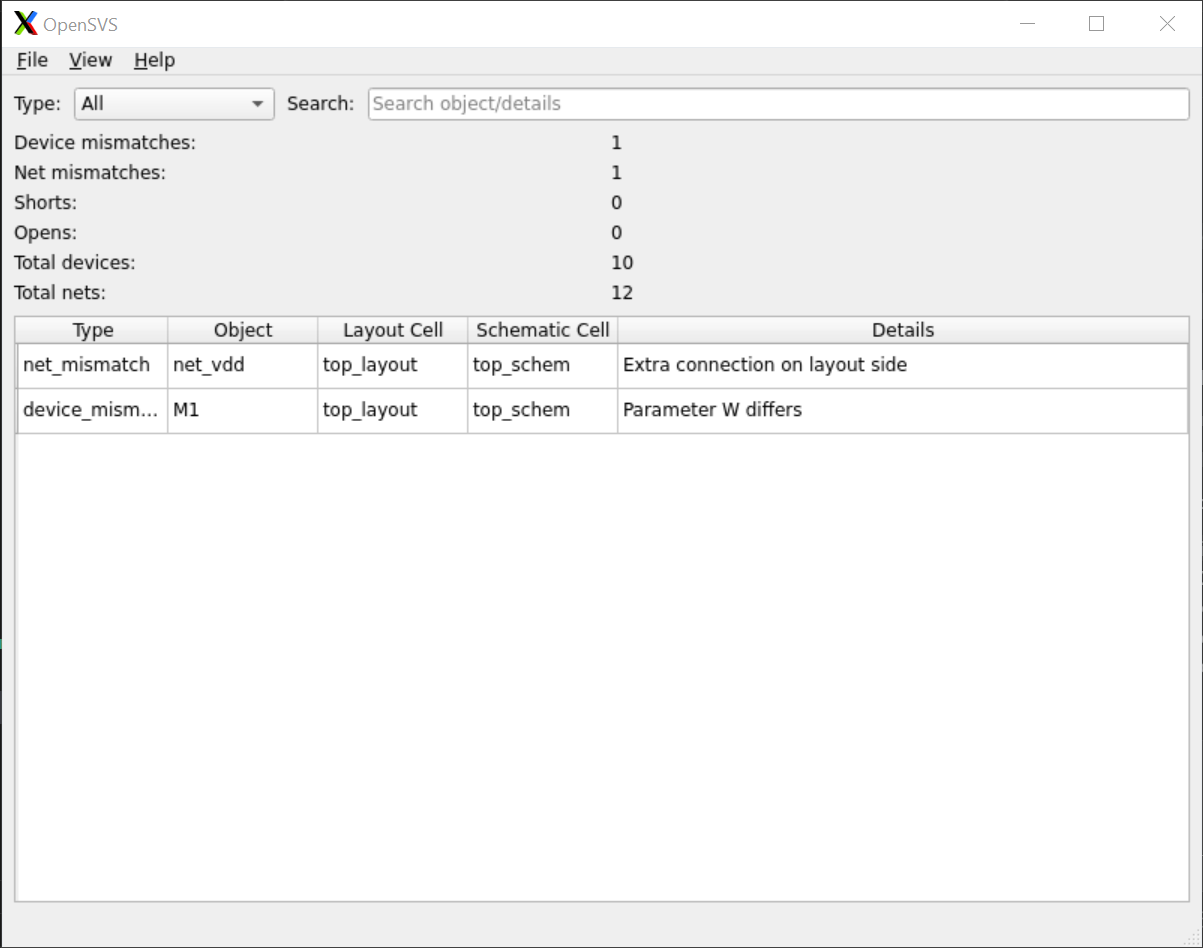
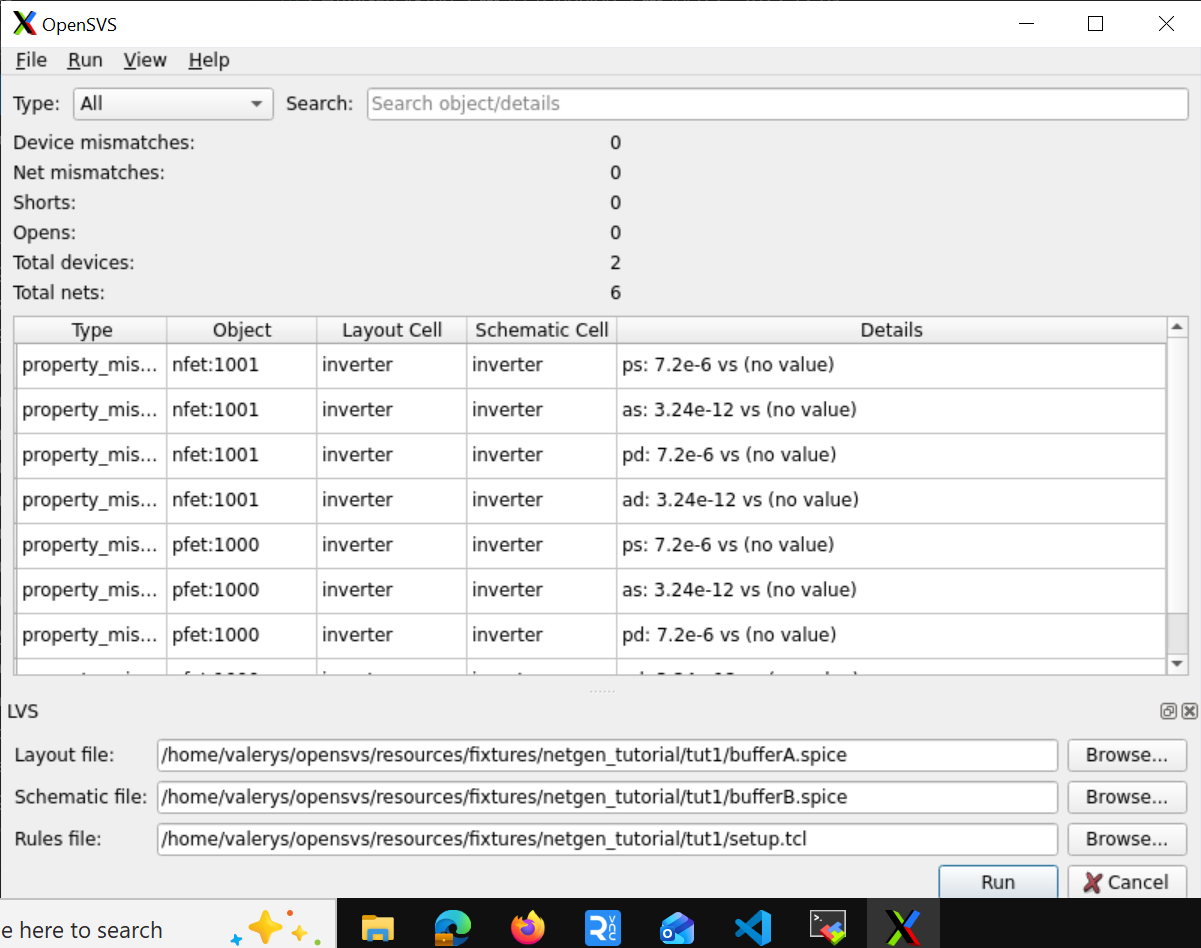
OpenSVS 0.2

diff --git a/src/main.cpp b/src/main.cpp
@@ -9,7 +9,7 @@ int main(int argc, char *argv[])
 {
     QApplication app(argc, argv);
     QCoreApplication::setApplicationName(QStringLiteral("opensvs"));
-    QCoreApplication::setApplicationVersion(QStringLiteral("0.1"));
+    QCoreApplication::setApplicationVersion(QStringLiteral("0.2"));
 
     QCommandLineParser parser;
     parser.setApplicationDescription(QStringLiteral("OpenSVS netgen JSON viewer"));

diff --git a/CHANGELOG.md b/CHANGELOG.md
@@ -1,8 +1,13 @@
 # Changelog
 
+## 0.2 - 2025-12-03
+- Reimplemented JSON parser to support netgen JSON output (netgen 1.15.311 tested). WARNING: netgen output support can be still limited
+- Added Run -> LVS dock, it configures and shells out to `netgen -batch lvs ... -json`, writes `.out/.json` into the current directory, and loads the resulting JSON into the viewer
+- UI tweaks: added borders to widget
+
 ## 0.1 - 2025-12-01
 - Initial Qt6 GUI scaffold with summary + table view for netgen JSON reports
-- JSON parser with fixture and QtTest coverage
+- JSON parser (for mock netgen output!) with fixture and QtTest coverage
 - Filters: type combo + regex-capable search
 - CLI support to load a JSON file at startup
 - Welcome screen with load button
